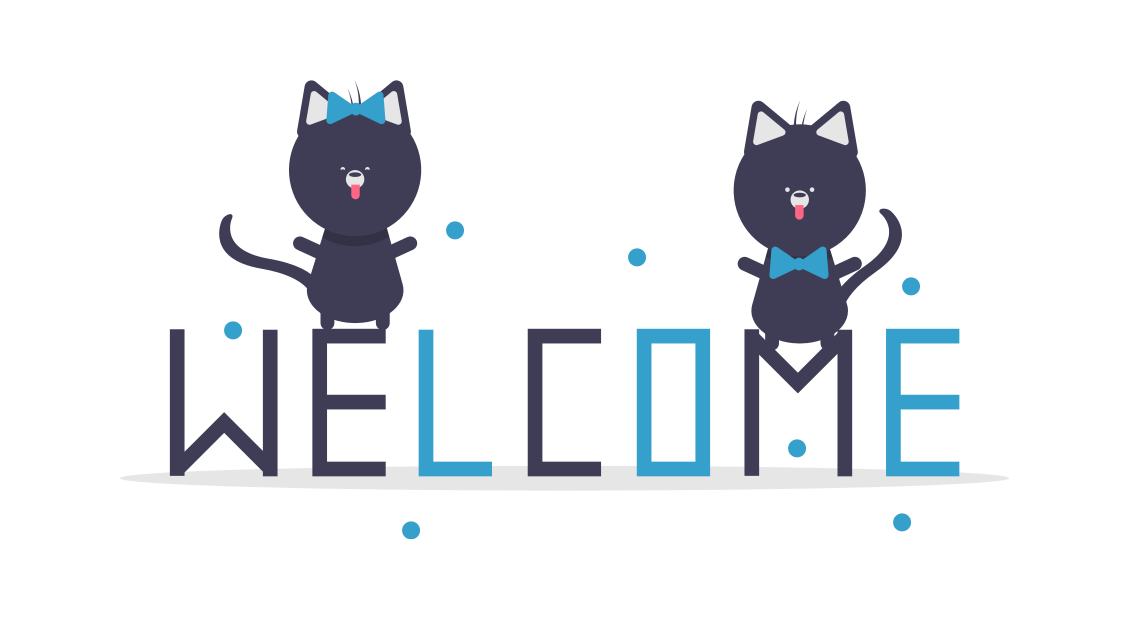
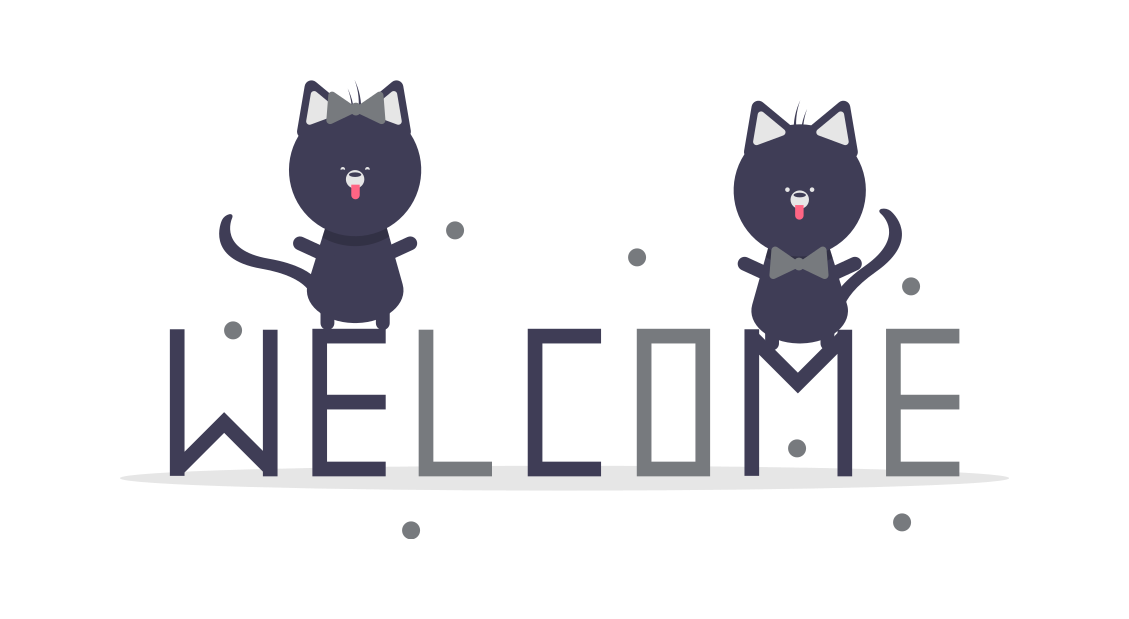
fix: theme修正

diff --git a/lib/app.dart b/lib/app.dart
@@ -10,6 +10,7 @@ import 'components/provider/navigator_key_provider.dart';
 import 'japanese_cupertino_location.dart';
 import 'screen/bottom_navigator_screen/bottom_navigator_screen.dart';
 import 'screen/error_screen.dart';
+import 'screen/register_user_profile_screen/register_user_profile_screen.dart';
 import 'screen/splash_screen.dart';
 import 'screen/welcome_screen/welcome_screen.dart';
 import 'state/auth_state/auth_state.dart';
@@ -32,6 +33,12 @@ class App extends HookWidget {
               (route) => false,
             );
             return;
+          case AuthState.onboarding:
+            navigatorKey.currentState?.pushAndRemoveUntil(
+              RegisterUserProfileScreen.route(),
+              (route) => false,
+            );
+            return;
           case AuthState.login:
             navigatorKey.currentState?.pushAndRemoveUntil(
               BottomNavigatorScreen.route(),
@@ -50,11 +57,11 @@ class App extends HookWidget {
         title: 'pairium',
         navigatorKey: navigatorKey,
         theme: FlexColorScheme.light(
-          scheme: FlexScheme.aquaBlue,
+          scheme: FlexScheme.shark,
           appBarStyle: FlexAppBarStyle.background,
         ).toTheme,
         darkTheme: FlexColorScheme.dark(
-          scheme: FlexScheme.aquaBlue,
+          scheme: FlexScheme.shark,
           appBarStyle: FlexAppBarStyle.background,
         ).toTheme,
         // themeMode: ThemeMode.dark,

diff --git a/lib/constants.dart b/lib/constants.dart
@@ -9,9 +9,8 @@ const kCancelCode = 'Cancel';
 
 class IColors {
   static const Color kBlack = Color(0xff121c2c);
-  static const Color kPrimary = Color(0xff35a0cb);
-  static const Color kPrimaryLight = Color(0xff86c6e0);
-  static const Color kPrimaryVariant = Color(0xff45b4d2);
+  static const Color kPrimary = Color(0xff1d2228);
+  static const Color kPrimarySecondary = Color(0xfffb8122);
 }
 
 class IFonts {

diff --git a/lib/main.dart b/lib/main.dart
@@ -21,7 +21,7 @@ void configLoading() {
     ..radius = 10.0
     ..lineWidth = 100.0
     ..backgroundColor = Colors.white
-    ..indicatorColor = IColors.kPrimaryLight
+    ..indicatorColor = IColors.kPrimarySecondary
     ..textColor = Colors.black
     ..maskColor = Colors.blue
     ..userInteractions = true
